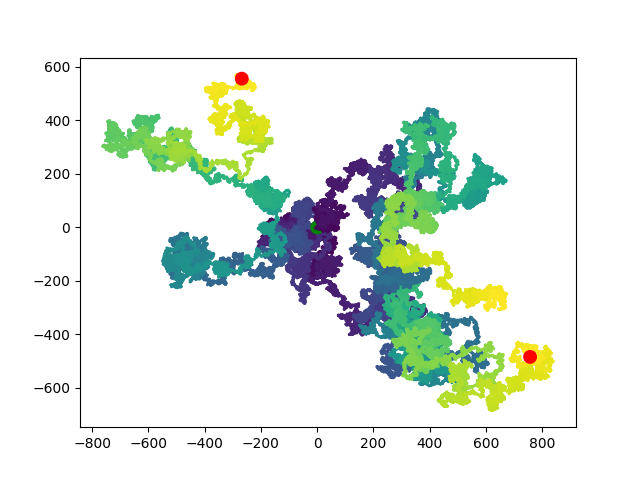
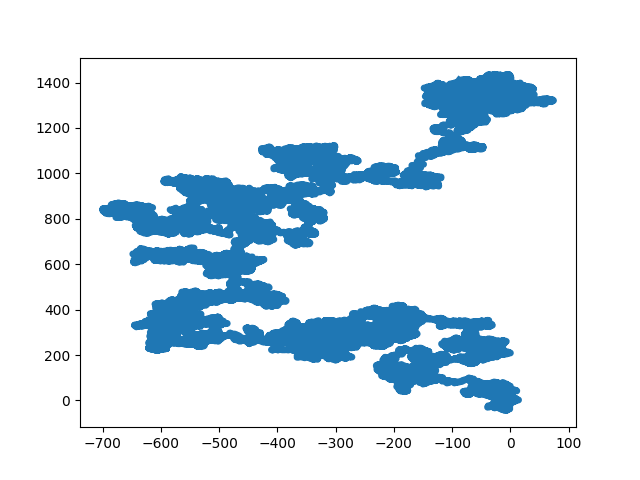
completed the random walks section

diff --git a/rw_visualization.py b/rw_visualization.py
@@ -9,7 +9,7 @@ while True:
 
     #add color map and plot points
     pointNumbers = list(range(rw.numPoints))
-    plt.scatter(rw.xValues, rw.yValues, c=pointNumbers, cmap=plt.cm.viridis, s=1)
+    plt.plot(rw.xValues, rw.yValues, linewidth=5)
     plt.savefig("RandWalk.png")
 
     #add emphasis to the first and last points
